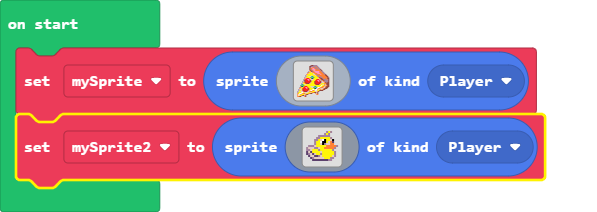
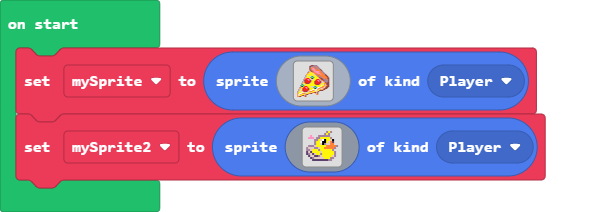
hey

diff --git a/main.ts b/main.ts
@@ -35,8 +35,8 @@ let mySprite = sprites.create(img`
 let mySprite2 = sprites.create(img`
     . . . . . . . . . . b 5 b . . . 
     . . . . . . . . . b 5 b . . . . 
-    . . . . . . b b b b b b . . . . 
-    . . . . . b b 5 5 5 5 5 b . . . 
+    . . 3 . . . b b b b b b . . . . 
+    . 3 3 3 . b b 5 5 5 5 5 b . . . 
     . . . . b b 5 d 1 f 5 5 d f . . 
     . . . . b 5 5 1 f f 5 d 4 c . . 
     . . . . b 5 5 d f b d d 4 4 . . 

diff --git a/images.g.ts b/images.g.ts
@@ -40,8 +40,8 @@ b555115dddd55d544eede...........
             case "image1":return img`
 . . . . . . . . . . b 5 b . . . 
 . . . . . . . . . b 5 b . . . . 
-. . . . . . b b b b b b . . . . 
-. . . . . b b 5 5 5 5 5 b . . . 
+. . 3 . . . b b b b b b . . . . 
+. 3 3 3 . b b 5 5 5 5 5 b . . . 
 . . . . b b 5 d 1 f 5 5 d f . . 
 . . . . b 5 5 1 f f 5 d 4 c . . 
 . . . . b 5 5 d f b d d 4 4 . . 
